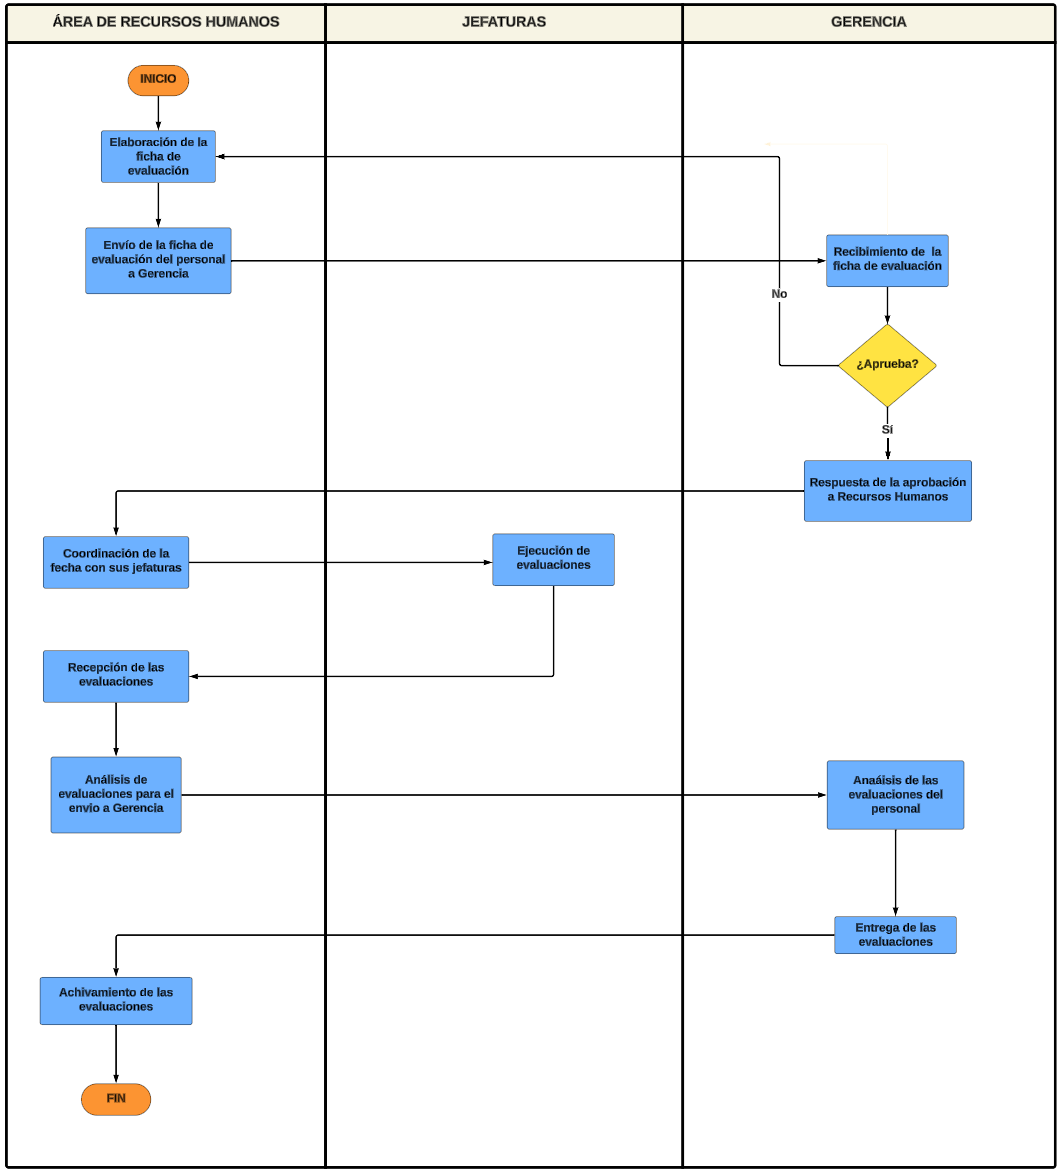
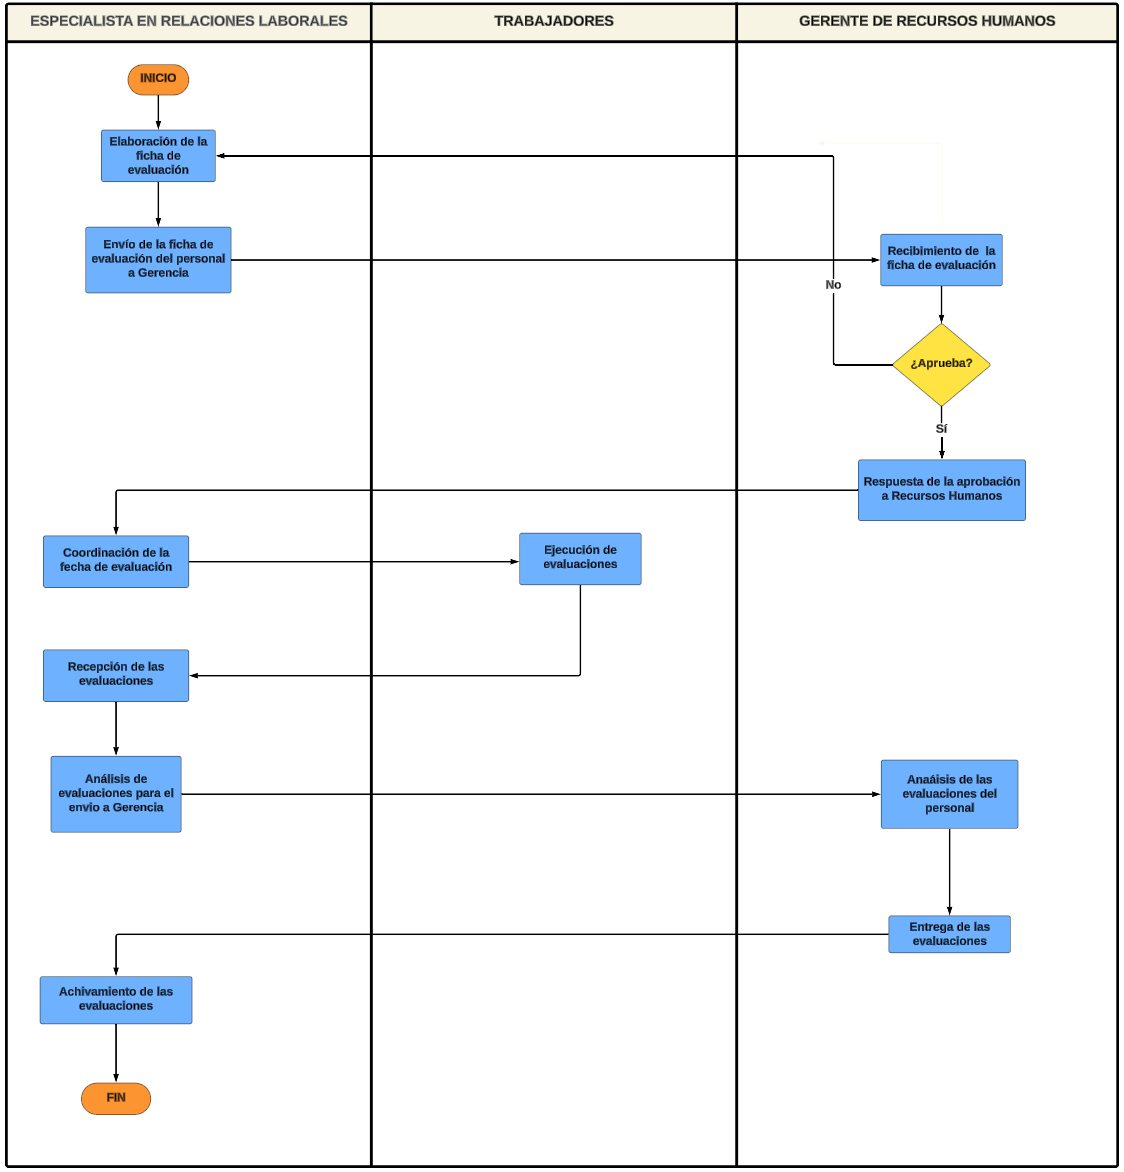
Evaluación

diff --git a/Flujogramas/Evaluacion.md b/Flujogramas/Evaluacion.md
@@ -7,24 +7,16 @@ Su objetivo principal es medir, analizar y evaluar el rendimiento laboral de los
 ### Imagen:
 ![Evaluación de Desempeño](Evaluación.png)
 ## Descripción de los procesos del flujograma
-1. **Elaboración de la ficha de evaluación:** Aquí se crean los formularios o fichas de evaluación que se utilizarán para evaluar el desempeño de los empleados.
-
-2. **Envío de la ficha de evaluación del personal a Gerencia:** Una vez creadas las fichas, se envían a la gerencia para su aprobación y validación.
-
-3. **Respuesta de la aprobación a Recursos Humanos:** La gerencia envía su aprobación o comentarios sobre las fichas de evaluación a Recursos Humanos.
-
-4. **Coordinación de la fecha con sus jefaturas:** Se coordina con los superiores directos de los empleados la fecha y el proceso de evaluación.
-
-5. **Ejecución de Evaluaciones:** Se llevan a cabo las evaluaciones de desempeño según lo programado.
-
-6. **Recepción de las evaluaciones:** Una vez completadas, las evaluaciones son recibidas por Recursos Humanos.
-
-7. **Análisis de evaluaciones para el envío a gerencia:** Se analizan las evaluaciones realizadas para preparar informes o resúmenes que serán enviados a la gerencia.
-
-8. **Análisis de las evaluaciones del personal:** Se analiza individualmente el desempeño de cada empleado.
-
-9. **Entrega de las evaluaciones:** Se entregan los resultados de las evaluaciones a los empleados y a sus respectivos superiores.
-
-10. **Archivamiento de las evaluaciones:** Se archivan los documentos relacionados con las evaluaciones de desempeño para futuras referencias y seguimiento.
-
-
+| Orden |                           Paso                          |                                                     Descripción                                                    |               Encargado              |
+|:-----:|:-------------------------------------------------------:|:------------------------------------------------------------------------------------------------------------------:|:------------------------------------:|
+|   1   |          Elaboración de la ficha de evaluación          | Aquí se crean los formularios o fichas de evaluación que se utilizarán para evaluar el desempeño de los empleados. | Especialista en relaciones laborales |
+|   2   | Envío de la ficha de evaluación del personal a Gerencia |                Una vez creadas las fichas, se envían a la gerencia para su aprobación y validación.                | Especialista en relaciones laborales |
+|   3   |          Recibimiento de la ficha de evaluación         |                        Recepción de las fichas de evaluación del desempeño de los empleados                        |      Gerente de Recursos Humanos     |
+|   4   |      Respuesta de la aprobación a Recursos Humanos      |          La gerencia envía su aprobación o comentarios sobre las fichas de evaluación a Recursos Humanos.          |      Gerente de Recursos Humanos     |
+|   5   |          Coordinación de la fecha de evaluación         |                          Los especialistas coordinan la fecha y el proceso de evaluación.                          | Especialista en relaciones laborales |
+|   6   |                Ejecución de Evaluaciones                |                         Se llevan a cabo las evaluaciones de desempeño según lo programado.                        |             Trabajadores             |
+|   7   |              Recepción de las evaluaciones              |                     Una vez completadas, las evaluaciones son recibidas por los especialistas.                     | Especialista en relaciones laborales |
+|   8   |    Análisis de evaluaciones para el envío a gerencia    |    Se analizan las evaluaciones realizadas para preparar informes o resúmenes que serán enviados a la gerencia.    | Especialista en relaciones laborales |
+|   9   |        Análisis de las evaluaciones del personal        |                              Se analiza individualmente el desempeño de cada empleado.                             |      Gerente de Recursos Humanos     |
+|   10  |               Entrega de las evaluaciones               |                           Se entregan los resultados de las evaluaciones a los empleados.                          |      Gerente de Recursos Humanos     |
+|   11  |            Archivamiento de las evaluaciones            |  Se archivan los documentos relacionados con las evaluaciones de desempeño para futuras referencias y seguimiento. | Especialista en relaciones laborales |
